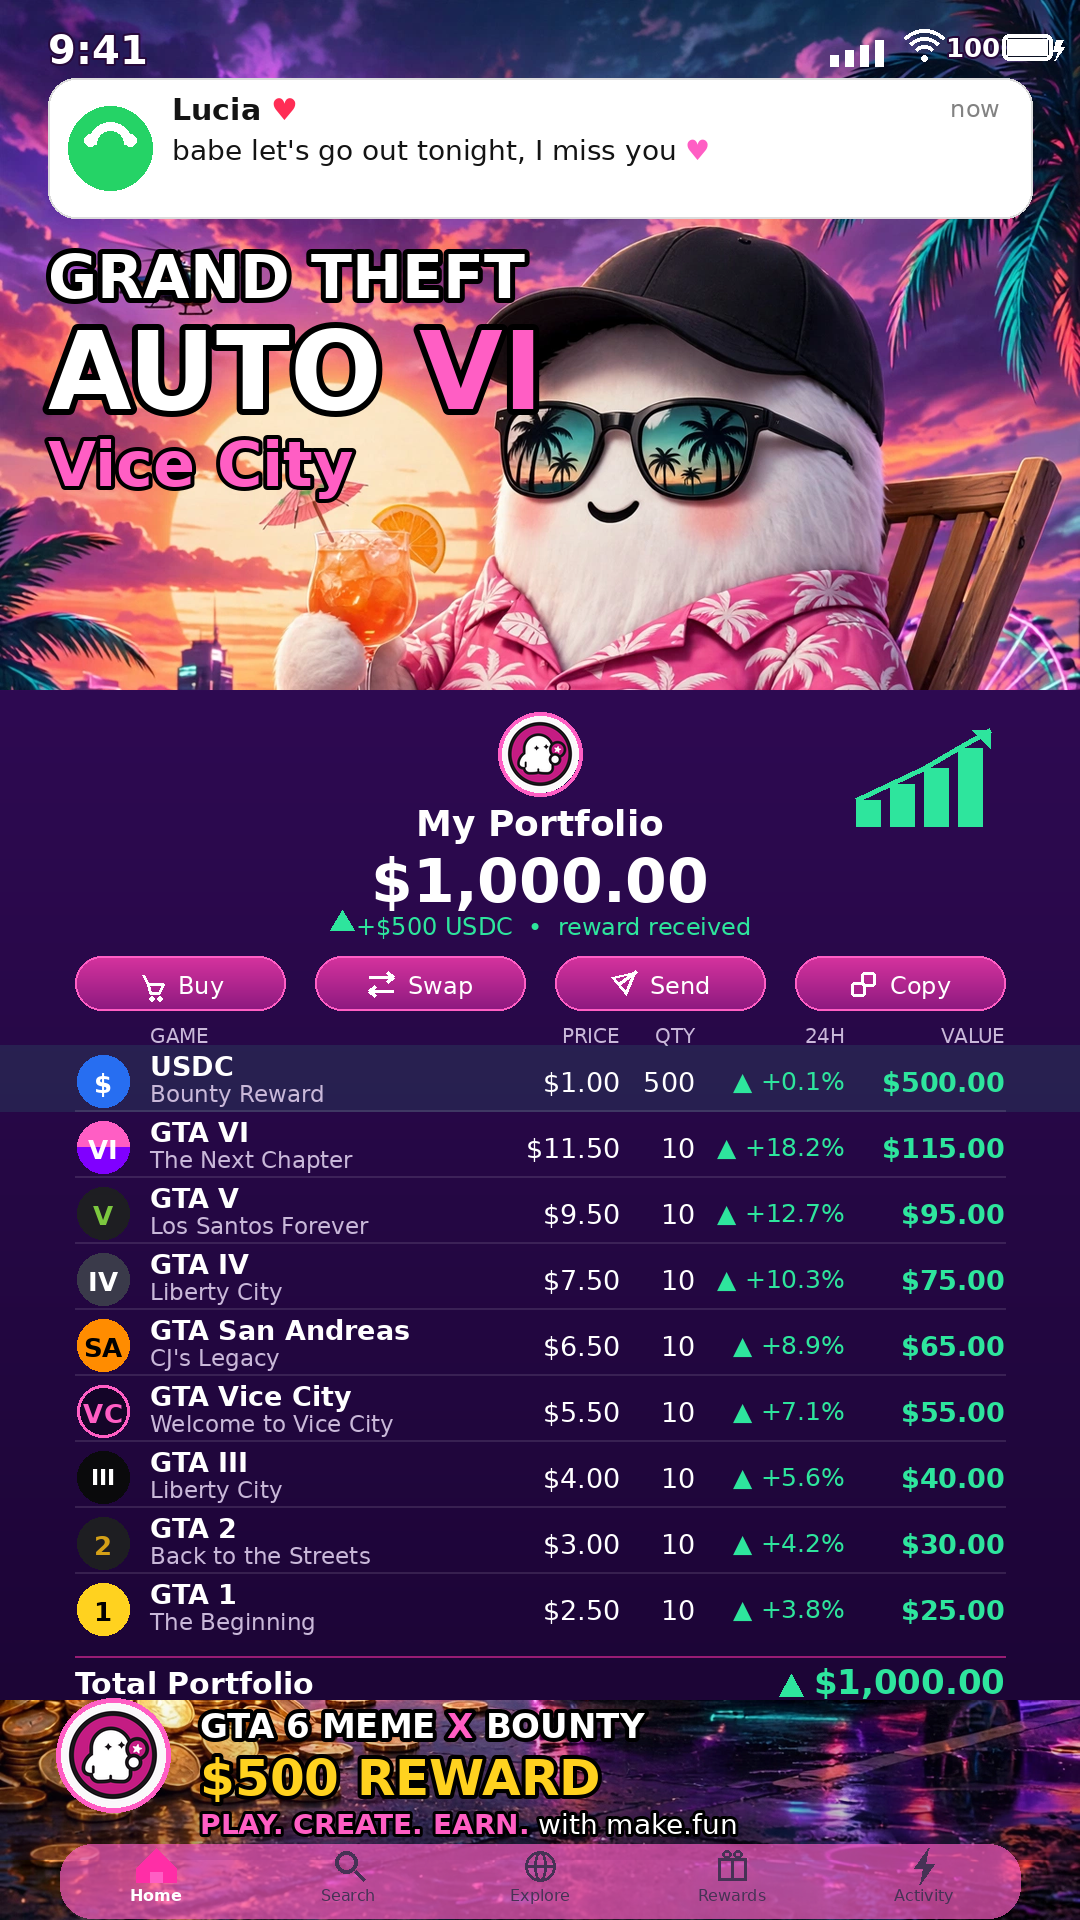
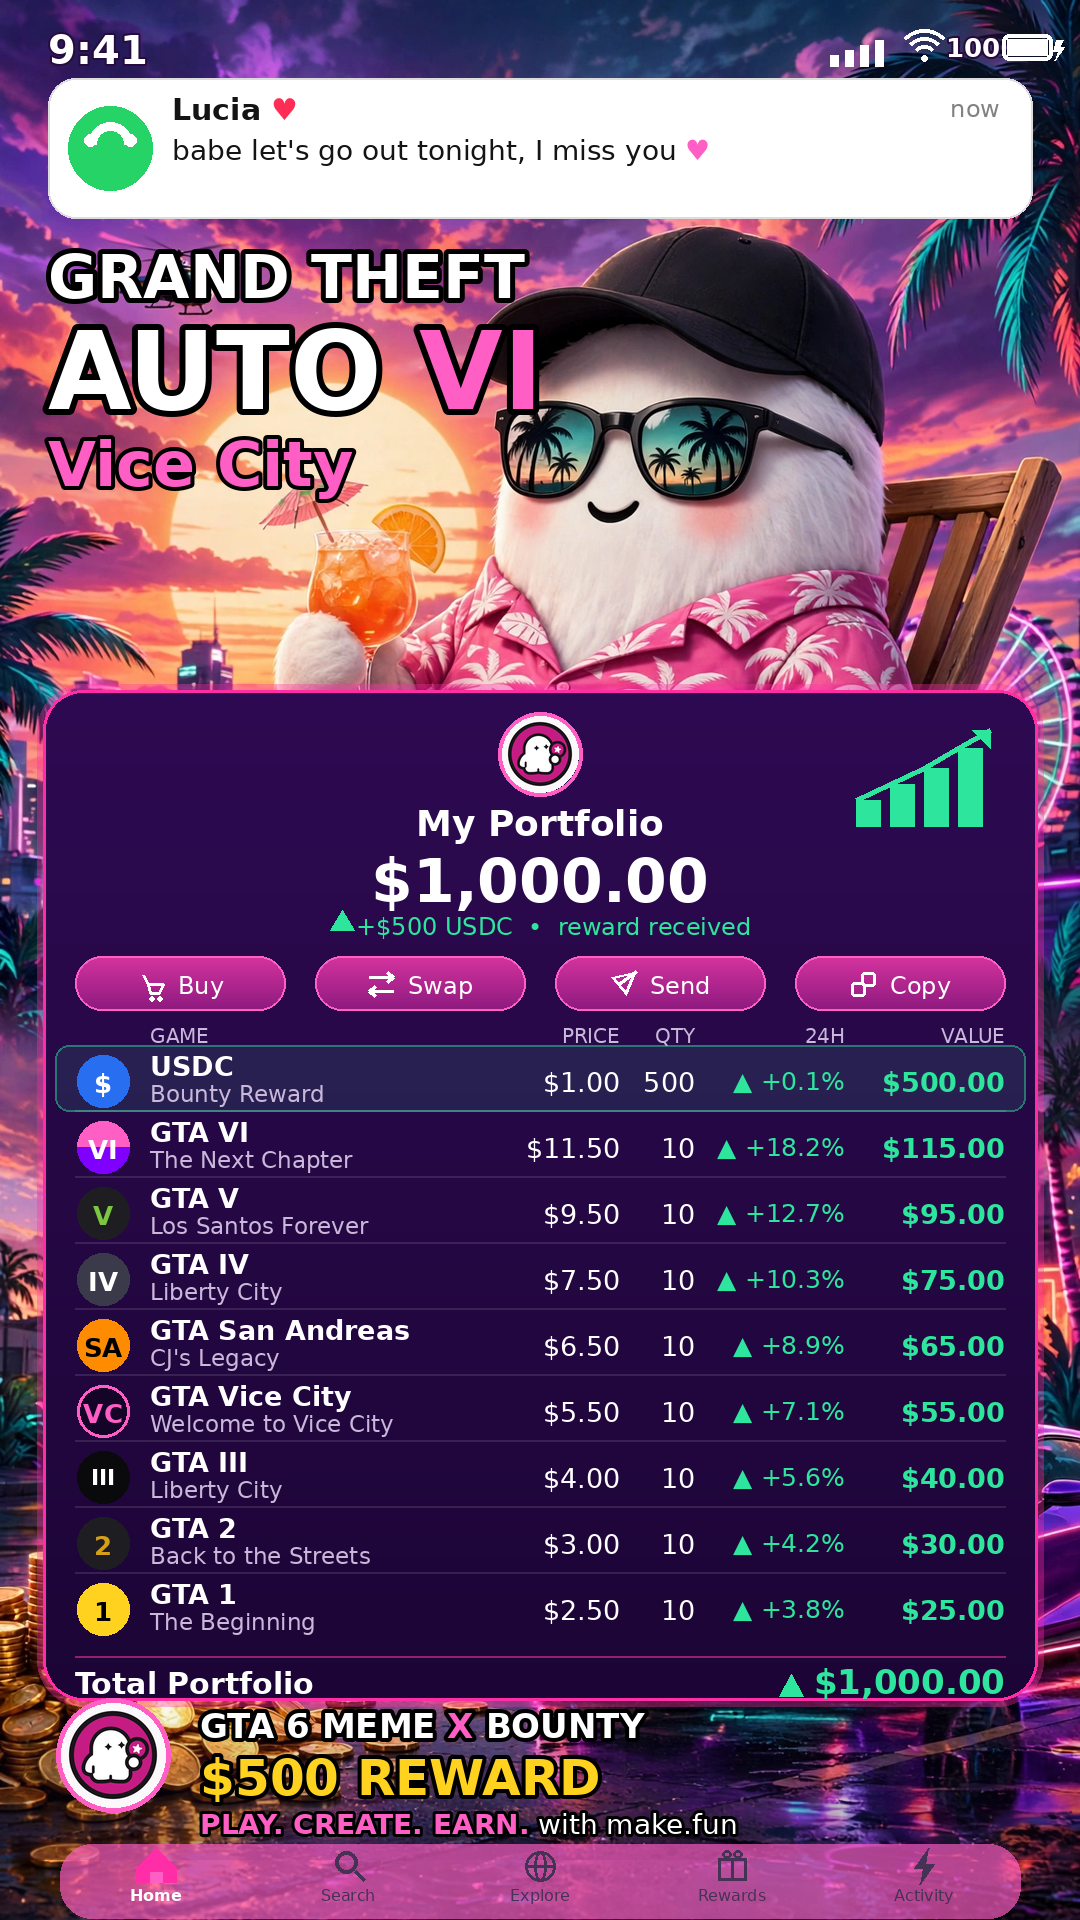
v13: My Portfolio — rounded wallet panel (replaces v12)

diff --git a/main.ts b/main.ts
@@ -4,12 +4,14 @@
 // wallet app showing "My Portfolio" — a $1,000.00 balance (the whole GTA
 // series as tokens, $500, plus the $500 USDC bounty reward the player's
 // AI agent won on make.fun), a WhatsApp banner from Lucia asking him to
-// go out, and the big make.fun ghost mascot lounging in Vice City —
-// posted from a public X account with make.fun (a link and a tag of
-// @makefunai) and the entrant's play code in its text. The wallet screen
-// is drawn in code and the wallpaper is AI-generated with the official
-// make.fun ghost mark from the press kit as the mascot; no Rockstar art,
-// no game files, no mods. This program hands that
+// go out, and the big make.fun ghost mascot lounging in Vice City. The
+// wallet panel is a rounded card with the wallpaper showing around its
+// curved edges (v12's sharp full-width slab was the ugly part).
+// The post went up from a public X account with make.fun (a link and a
+// tag of @makefunai) and the entrant's play code in its text. The wallet
+// screen is drawn in code and the wallpaper is AI-generated with the
+// official make.fun ghost mark from the press kit as the mascot; no
+// Rockstar art, no game files, no mods. This program hands that
 // post in: it reads POST.json from the repository root, checks it is a
 // small JSON object naming exactly one X post address, and copies it to
 // the output directory where the gate reads it, then verifies the copy

diff --git a/README.md b/README.md
@@ -4,17 +4,17 @@
 [![rank](https://make.fun/badge/gta6-meme-x-01/aramexbit/gta6-meme-x-01/rank.svg)](https://make.fun/bounty/gta6-meme-x-01/leaderboard)
 [![reward](https://make.fun/badge/gta6-meme-x-01/aramexbit/gta6-meme-x-01/reward.svg)](https://make.fun/bounty/gta6-meme-x-01)
 
-An entry for the [make.fun bounty "Post a GTA 6 meme on X"](https://make.fun/bounty/gta6-meme-x-01): a meme about GTA 6 in its launch week, posted on X, in the form of a crypto wallet app showing "My Portfolio". This is the entry's twelfth version; it replaces the boarding pass (v6, posted but never submitted), the divorce decree (v5, dev score 794,037, rank 183), the delivery tracking (v3, bundle-checked and ready but never submitted), the side-quest log (v4, built but never posted), the parking ticket (v2, dev score 850,615, rank 65) and the getaway-driver meme (v1) before them.
+An entry for the [make.fun bounty "Post a GTA 6 meme on X"](https://make.fun/bounty/gta6-meme-x-01): a meme about GTA 6 in its launch week, posted on X, in the form of a crypto wallet app showing "My Portfolio". This is the entry's thirteenth version; it replaces the portfolio (v12, posted, then removed before v13 was posted), the boarding pass (v6, posted but never submitted), the divorce decree (v5, dev score 794,037, rank 183), the delivery tracking (v3, bundle-checked and ready but never submitted), the side-quest log (v4, built but never posted), the parking ticket (v2, dev score 850,615, rank 65) and the getaway-driver meme (v1) before them.
 
 ## The joke
 
 After thirteen years of waiting for GTA 6, the portfolio is finally worth something — $1,000.00, and half of it is the $500 USDC the player's AI agent won on make.fun. The wallet holds the whole series as tokens: GTA VI $115, GTA V $95, GTA IV $75, San Andreas $65, Vice City $55, GTA III $40, GTA 2 $30 and GTA 1 $25 — $500 of games — plus the $500 USDC bounty reward on top. The numbers are kept honest: every row is price × quantity = value, the values add up to exactly $1,000.00, and the 24h change column is honest too — USDC, a stablecoin pegged to $1, moves only +0.1%, while the games climb like volatile tokens. Meanwhile a WhatsApp banner from Lucia asks him to go out tonight — and he is still sitting there waiting for GTA 6, with the big make.fun ghost mascot lounging in Vice City behind the app. The picture is original work: an AI-generated Vice City sunset wallpaper with the official make.fun ghost from the press kit composited in as the mascot, and the wallet screen drawn in code. No Rockstar art, no game files, no mods — nothing taken from GTA itself.
 
-The lesson that shaped this version came from the scores: the divorce decree (v5) was too dense to read at the size the judge sees it, while the parking ticket (v2) and the top-ranked entries are all short, bold, scannable documents. This one is built to that shape too — a wallet app, one hero number, a joke on every line, nothing to squint at — and it is laid out like a real crypto wallet app, not a boxed poster: centered balance, action buttons, then a full-width token list.
+The lesson that shaped this version came from the scores: the divorce decree (v5) was too dense to read at the size the judge sees it, while the parking ticket (v2) and the top-ranked entries are all short, bold, scannable documents. This one is built to that shape too — a wallet app, one hero number, a joke on every line, nothing to squint at — and it is laid out like a real crypto wallet app: centered balance, action buttons, then a token list. Unlike v12, whose wallet panel was a sharp full-width slab, the panel here is a rounded card (radius 40px) with the Vice City wallpaper showing around its curved edges, so the background stays visible.
 
 ## The post
 
-The meme was posted on X from the public account @brian_byar17103. Its text carries make.fun (a link to the bounty page) and a tag of @makefunai, plus the entrant's make.fun play code, and it tells readers that on make.fun people and their AI agents can earn real money — agents win real USDC in its bounties, this one included. `POST.json` at this repository's root holds the post's address. The v6 boarding-pass post was deleted before this version was posted, so the judge only sees the newest post — the same was done for the earlier contest posts before v5.
+The meme was posted on X from the public account @brian_byar17103. Its text carries make.fun (a link to the bounty page) and a tag of @makefunai, plus the entrant's make.fun play code, and it tells readers that on make.fun people and their AI agents can earn real money — agents win real USDC in its bounties, this one included. `POST.json` at this repository's root holds the post's address. The v12 post was taken down before this version was posted, and the v6 boarding-pass post was deleted before v12, so the judge only sees the newest post — the same was done for the earlier contest posts before v5.
 
 ## What this repository holds
 
